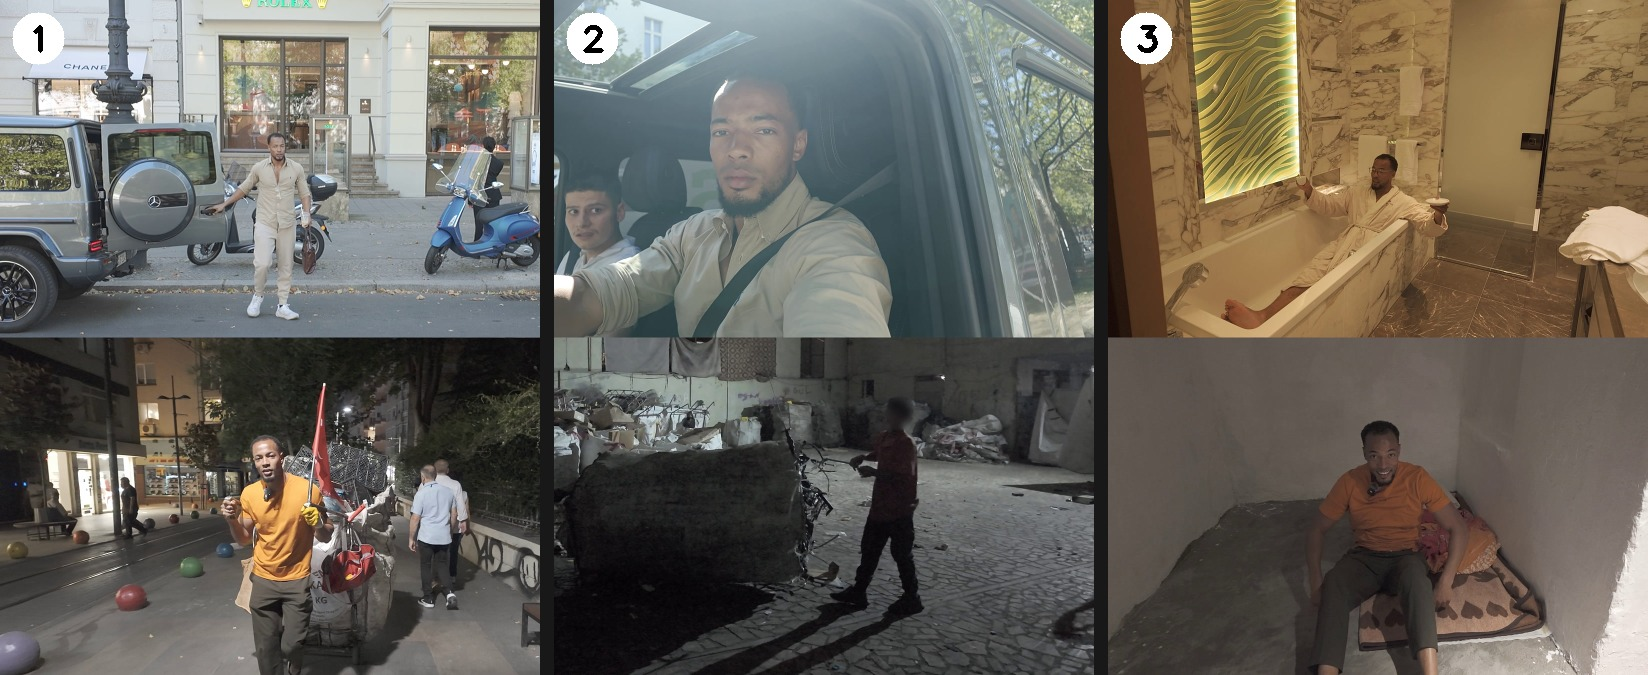
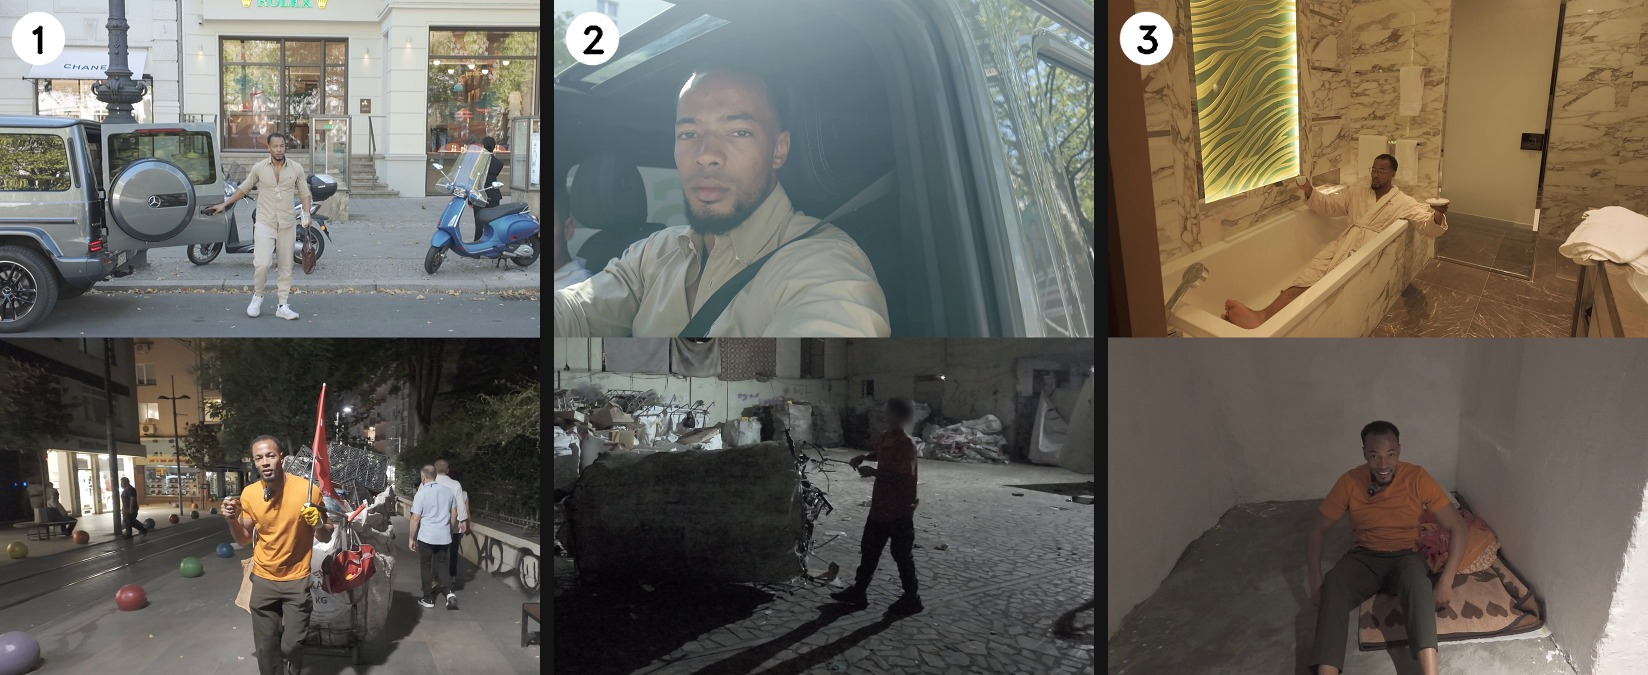
Brain: slide 2 rebuilt — passenger cropped out at the eye line (his call), picture 1.19x bigger
- split3 top crop 2432x1520 @ (1248,280): left edge 10 px past the passenger's brow tip, only hair/ear/cheek slice remain
- Haar face/eye check: old crop detects him, new left strip nothing; three zoom variants compared, middle chosen
- README/STATE/LOG (q)/MEMORY §6: bystander rule (crop at the eye line when at the frame edge, consent first)
- overview sheet and slide file replaced; old version only in git history

Claude-Session: https://claude.ai/code/session_01XQ6239pQ84kpzUcTN857M6

Changed region(s): [[0.3095, 0.0, 0.557, 0.4978], [0.5261, 0.0, 0.7118, 0.4978]]

diff --git a/brain/projects/ig-post-what-if-carousel/README.md b/brain/projects/ig-post-what-if-carousel/README.md
@@ -9,7 +9,7 @@ Overview: `carousel_3slides_FINAL_overview.jpg`. Posting order = my proposal, hi
 | post slide | file | top / bottom |
 |---|---|---|
 | 1 | `split1_gklasse_over_cart_FINAL_1080x1350.jpg` | G-Klasse + Rolex street (Berlin) / him pulling Tahsin's cart (Kadıköy, night) |
-| 2 | `split3_interior_over_depot_BLURRED_1080x1350.jpg` | G-Klasse interior, direct stare / dark depot yard, the 19-year-old's face blurred |
+| 2 | `split3_interior_over_depot_BLURRED_1080x1350.jpg` | G-Klasse interior, direct stare (v2: passenger CROPPED OUT at the eye line, picture 1.19× bigger) / dark depot yard, the 19-year-old's face blurred |
 | 3 | `split2_bath_over_floor_4K_FINAL_1080x1350.jpg` | Waldorf bath, teacup toast / Istanbul floor, heart blanket, him smiling |
 
 - **Caption = his typed v2 FINAL, UNCHANGED.** The v3 context line ("people who have the least give the most. last slide is
@@ -46,7 +46,7 @@ are SUPERSEDED by the block above; the split table, flags and rebuild recipes be
 |---|---|---|---|---|
 | 1 | G-Klasse/Rolex street, Berlin | him pulling Tahsin's cart, Kadıköy night | 4K PNGs (his ZIP 1) | **FINAL** `split1_…FINAL…jpg` — he: "sieht krass aus" |
 | 2 | Waldorf marble bath, teacup toast | Istanbul floor, heart blanket, smiling | 4K PNGs (`split_2.zip`: `1030(26)`, `1030(27)`) | **FINAL** `split2_…4K_FINAL…jpg` (bath face detail 2× vs chat copy) |
-| 3 | G-Klasse interior, eye contact + friend (`1030(22)`, sun-flare haze) | dark Istanbul scrap-depot yard (`1030(33)`) | `split_3.zip` | **BUILT** `split3_…jpg` — the youth is 19 and agreed to be posted (per Benjamin); the weakest of the four (a portrait, no luxury code in the top frame); **depot youth's face BLURRED** (his call, 30 Oct) — soft documentary blur, `split3_…BLURRED…jpg` |
+| 3 | G-Klasse interior, eye contact + friend (`1030(22)`, sun-flare haze) | dark Istanbul scrap-depot yard (`1030(33)`) | `split_3.zip` | **BUILT** `split3_…jpg` — the youth is 19 and agreed to be posted (per Benjamin); the weakest of the four (a portrait, no luxury code in the top frame); **depot youth's face BLURRED** (his call, 30 Oct) — soft documentary blur, `split3_…BLURRED…jpg` · **v2 (30 Oct late): passenger cropped out at his eye line, picture 1.19× bigger** |
 | 4 | Waldorf spa pool (`1030(13)`) | **Tahsin on the Kadıköy bull**, Fenerbahçe jersey, arms wide (WhatsApp photo 2026-09-01) | `split_4.zip` | ~~FINAL 30 Oct~~ → **PARKED (30 Oct late: dropped — his call; the only non-4K image)** `split4_…FINAL…jpg` (pool | Tahsin on the bull) |
 | — | Berlin underpass (`1030(4)`) | — | `split_4.zip` | **NOT USED** (dignity, faces, plates) |
 
@@ -57,7 +57,12 @@ cooked for me there."). Pairing 4 was my call; swap if he meant the underpass.
 
 ## Flags
 - Depot frame (`1030(33)`): RESOLVED 30 Oct — the young man is **19; Benjamin asked him and he agreed to be posted** (his word). Still a wide shot of the depot (his Istanbul brief wanted none) — his call, kept. Crop drops the smeared hand in the corner; lifted gamma 1.28 only (it is a night scene).
-- Split 3 top shows the passenger (young man, white shirt) clearly in 4K — his OK was flagged earlier, not yet answered. The bald cyclist with sunglasses at the left window is cropped out.
+- Split 3 top, the PASSENGER (young man, white shirt, left): no consent known (asked twice, unanswered) → **RESOLVED by his call, 30 Oct late: cut off at the eye line,
+  no blur.** In the 4K frame his eyes sit at x 1040–1212 / y 1285–1335, brow tip ≈ x 1238, ear x 1300–1340. The crop's LEFT edge is now x = 1248 (10 px past the brow tip)
+  → what remains is hair, ear, a cheek slice and the collar. Window 2432×1520 @ (1248, 280) = 1.19× bigger than the old 2880×1800 @ (960, 180); sunroof, door, headrest and
+  belt keep the car readable. Variants tried: 1.11× (more car, Benjamin barely bigger), 1.25×, 1.41× (sunroof gone) → the middle one. Check: Haar face/eye detectors find the
+  passenger in the OLD crop and nothing in the new left strip; looked at 3× zoom. The old version with the visible face exists only in git history (≤ 0786818) — do NOT post it.
+  The bald cyclist with sunglasses at the left window stays outside the crop (x < 1000).
 - Underpass frame (`1030(4)`): a man's torn trousers expose his buttocks; seated people recognisable
   (consent unknown); several number plates legible. Dignity before drama (§1b) → do not use; if ever,
   crop/blur heavily.
@@ -68,7 +73,8 @@ cooked for me there."). Pairing 4 was my call; swap if he meant the underpass.
 split 1: diptych.sh o3_rgb.png o2_rgb.png OUT.png 2672:1670:250:0 2848:1780:100:380 1.10 1.0 0.7 0
 split 2: diptych.sh z2_1.png z2_2.png OUT.png 3456:2160:384:0 3456:2160:0:0 1.12 1.03 0.7 0   (4K bath/floor, rgb24)
 split 3: first  python3 -I tools/blur_face.py z3_4.png z3_4_blur.png --ellipse 2976 1040 58 74 --sigma 14 --feather 6 --grain-patch 2700 880 2860 980
-         then diptych.sh z3_3.png z3_4_blur.png OUT.png 2880:1800:960:180 2304:1440:1500:720 1.28 1.08 0.7 0 "contrast=1.12:brightness=-0.03:saturation=1.08"   (interior / depot; 10th arg = top-panel eq)
+         then diptych.sh z3_3.png z3_4_blur.png OUT.png 2432:1520:1248:280 2304:1440:1500:720 1.28 1.08 0.7 0 "contrast=1.12:brightness=-0.03:saturation=1.08"   (interior / depot; 10th arg = top-panel eq;
+         v2 top crop = passenger cut at the eye line; v1 was 2880:1800:960:180 with the passenger's face visible)
 split 4: diptych.sh z4_5.png z4_7.png OUT.png 3456:2160:264:0 1536:960:0:400 1.0 1.0 0.7 0   (pool / bull JPG)
 ```
 Slide 1 specifics: top crop x 250–2922, y 0–1670 → excludes the parked GLA's plate (B JP 176, razor-sharp
@@ -79,8 +85,7 @@ from the UNTOUCHED source clip would give the full 16:9 (more cart, his legs).
 Cart frame choice: o2 over o1 (face sharpness 66 vs 57, direct gaze).
 
 ## Open
-1. His OK: order 1→3→2 (or the old 1→2→3?) and whether "turkey" meant 4K. Passenger in the interior frame OK to post?
-   (asked twice, unanswered — offer: blur him like the youth.)
+1. His OK: order 1→3→2 (or the old 1→2→3?) and whether "turkey" meant 4K. (Passenger: resolved — cropped at the eye line, v2.)
 2. Optional first comment: "the cart and the floor are tahsin's. he cooked for me there." (else hashtags only).
 3. Rejected: frame 9 thumbs-up on the floor (dignity), frame 10 dark bath, frame 8 yacht (no human), 1:1.
 

diff --git a/brain/MEMORY.md b/brain/MEMORY.md
@@ -84,6 +84,7 @@ His own key sentence: **"The strongest videos play around other people."** No ot
 - [added 2026-09-29] **Never post a third party's private contact details or anything that exposes/identifies a private person** — a handwritten phone number, address, license plate, ID, a screen with a contact open. Real case: a clip filmed a yellow note with a woman's actual phone number + a heart (someone who gave Benjamin her number in Rio). Posting it anywhere sends his followers to a real person's phone — a safety issue for HER, doxxing even if unintended. If any frame of such a moment is used, the detail must be 100% covered. This is a hard line, separate from brand fit; it also overlaps the "me + a woman = flex" problem (§2 hero-not-flex).
 - [added 2026-10-01] **SOURCING subjects from TikTok/press (Germany + anywhere): verify before you film, reputation is shared.** Viral hardship content is frequently staged or a donation scam — Tagesschau documented an influencer who exploited a homeless person for a FALSE appeal (Essen). Cross-check consistency (multiple videos, same story, no contradictions) + any local press/Verein mention before contacting; read comments (real stories draw local reactions, fakes draw generic praise/authenticity fights). Prefer press-covered or vetted-fundraiser cases as leads — pre-vetted, and the person chose visibility; for a press case, reach via the journalist/outlet, not a cold DM. Full method + current German leads: brain/projects/germany-subjects/. A fake subject drags his name down with it.
 - [added 2026-10-30] **BLUR STANDARD (documentary look):** anonymise on the full-res 4K SOURCE before cropping, with `tools/blur_face.py`: feathered head-shaped ellipse, heavy smooth Gaussian (sigma ≈ 14 % of head width) + grain matched to the surroundings — the silhouette stays, no feature survives. Fine-pixel mosaic (`--mode mosaic`, 8 px blocks) is the second choice: it reads as a censor box and its blocks mix in background brightness. Judge the result at ~2× (phone scale), not at 3–4×. First use: the 19-year-old at the Istanbul depot (he consented to posting; Benjamin chose the blur anyway). Blur never replaces the other checks (plates, minors, exposed bodies).
+- [added 2026-10-30, his call] **UNCONSENTED BYSTANDER IN THE FRAME (passenger, passer-by): CROP at the eye line, don't blur, when the person sits at the frame edge.** For the passenger in the G-Class interior frame he asked the frame edge to cut the face exactly before the eyes ("nicht eindeutig identifizieren"), the picture bigger not smaller, the car still readable, composition "nicht zu wenig nicht zu viel". Method: find eye + brow coordinates in the 4K source, put the crop edge ~10 px beyond the far brow tip (leaves hair/ear/cheek slice), keep the aspect, zoom ≥ 1.0 (never shrink the main subject), try 2–3 zoom levels and take the middle one, check with Haar eye/face detectors on the edge strip (old crop must detect, new must not) and at 3× zoom. A frame cut beats a blur for people at the edge; the BLUR STANDARD above is for people inside the frame. Consent still comes first: ask, and anonymise if unanswered. `tools/diptych.sh` needs no change — only the TOP_CROP argument.
 - Child-safety line: kids' organizations (e.g. Buku Jalanan Chow Kit) stay OFF the channel.
 - Political videos (Brown-German/Staatsräson, Palestine/Malaysia) = "from strength, later." Never stack two political risk videos close together. Never draft these half-awake or from garbled input.
 - [added 2026-09-29] **LEISURE / OFF-ENGINE content (guns, flexing, flirty "me + a woman" bits): default OFF the public grid.** Test any clip against the §2 engine; if it has zero engine elements it is the opposite pole of the brand ("I sit with the invisible") and does not go out as a discovery Reel. GUNS specifically: audience is heavily SEA/Muslim and the faith layer is real — a holiday gun clip signals leisure/weapons/flex and clashes hard, regardless of sport-shooting being fine in itself. At most such material lives in BEHIND/OFF SCRIPT for warm followers, never next to the invisible-people content. His own hesitation about self-display is a reliable signal — trust it, do not talk him out of it.

diff --git a/brain/STATE.md b/brain/STATE.md
@@ -49,7 +49,7 @@ answers here, delete the question.
 ### IG post — WHAT IF split carousel (30 Oct) — 3 SLIDES, READY TO POST (his OK on the order pending)
 - `projects/ig-post-what-if-carousel/` (sheet: `carousel_3slides_FINAL_overview.jpg`). **His call, 30 Oct late: "maybe skip tahsin?
   less is more"** → the pool | Tahsin slide is DROPPED. Posting order (my proposal): **1 G-Klasse | cart → 2 interior | depot
-  (youth 19, consented, face blurred) → 3 bath | floor** — ends on his smile on Tahsin's floor; old order 1→2→3 = alternative
+  (youth 19, consented, face blurred; passenger cut off at the eyes) → 3 bath | floor** — ends on his smile on Tahsin's floor; old order 1→2→3 = alternative
   (rename only). All three built from his 4K originals (`split1` / `split3` / `split2` `…FINAL…jpg`, 1080×1350, `tools/diptych.sh`).
   Caption = his typed v2 FINAL, unchanged (v3 Tahsin line withdrawn) in `projects/shorts-from-archive/what_if_reel_caption.md`.
   First comment: hashtags (+ optional "the cart and the floor are tahsin's. he cooked for me there.").
@@ -57,7 +57,7 @@ answers here, delete the question.
   "not turkey like all other pics" is most likely "4K" mis-dictated, my reading, unconfirmed). For a later Tahsin post: get the
   ORIGINAL from Tahsin (WhatsApp → "Document") or shoot 4K at ≥1/250 s. Fisherman = alt for slide 2 (needs his 4K frame);
   arguing men (underpass) → Berlin video, not here.
-- Open: his OK on the order 1→3→2 · passenger in the interior frame (asked twice, unanswered; offer = blur like the youth).
+- Open: his OK on the order 1→3→2. Passenger in the interior frame: RESOLVED 30 Oct late — his call, cropped out at the eye line (left edge), no blur; slide 2 rebuilt 1.19× bigger.
 - **Quality problem (30 Oct) SOLVED:** rebuilt from 4K originals (his ZIPs); rules in MEMORY §14.
 
 ### ZÜRICH — "Der ärmste Mann in der reichsten Stadt der Welt" — PREPRODUCTION (29 Oct)

diff --git a/brain/LOG.md b/brain/LOG.md
@@ -604,3 +604,13 @@ facts only. Never edit old entries — correct with a new one.
   called the blurred split "quite strong, creating attention"; ends on the warmest pair. 1→2→3 = alternative, rename only.
 - Caption: v2 FINAL stands, v3 line withdrawn; optional first comment credits Tahsin. Parked: pool frame, Tahsin photo,
   "people who have the least give the most" (for a Tahsin post/reel). Brain: README, caption file, STATE rev 7, MEMORY §5/§10.
+
+## 2026-10-30 (q) — his call: passenger cropped out at the eye line, slide 2 rebuilt
+- He (voice, German): adjust "the last picture" = the interior | depot slide. The person sitting with him in the car must not be identifiable: show
+  only the first beginning of the face and stop exactly where the eyes are; the car stays well recognisable; the picture must get BIGGER, not smaller,
+  fill the panel, well composed, "nicht zu wenig nicht zu viel". (No consent known for the passenger — I had asked twice, unanswered.)
+- Done: located him in the 4K frame (eyes x 1040–1212 / y 1285–1335, brow tip ≈ 1238, ear 1300–1340) and moved the crop's LEFT edge to x = 1248 → only hair,
+  ear, a cheek slice and the collar remain. Window 2432×1520 @ (1248, 280) = 1.19× bigger than before. Three variants built (1.11× / 1.25× / 1.41×) —
+  chose the middle: 1.11× left Benjamin barely bigger, 1.41× lost the sunroof (car cue). Haar face/eye detectors: the old crop finds the passenger, the new
+  left strip finds nothing; 3× edge zoom checked. Regression first: the rebuilt OLD slide matched the delivered JPEG (mean abs diff 1.3/255).
+- Overwrote split3_…BLURRED…jpg and the 3-slide overview in the brain; old version only in git history (≤ 0786818), not to be posted.
